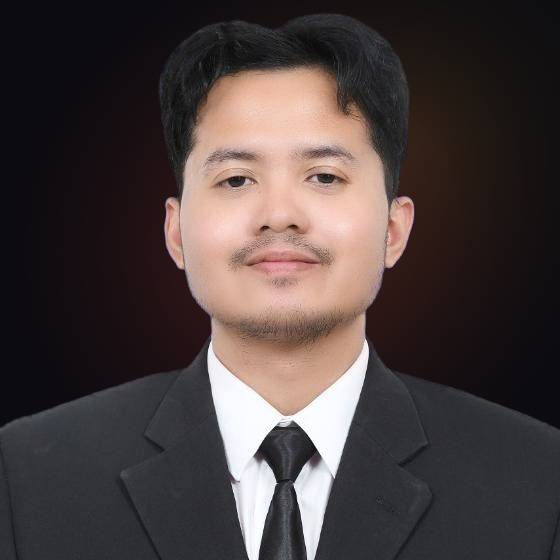
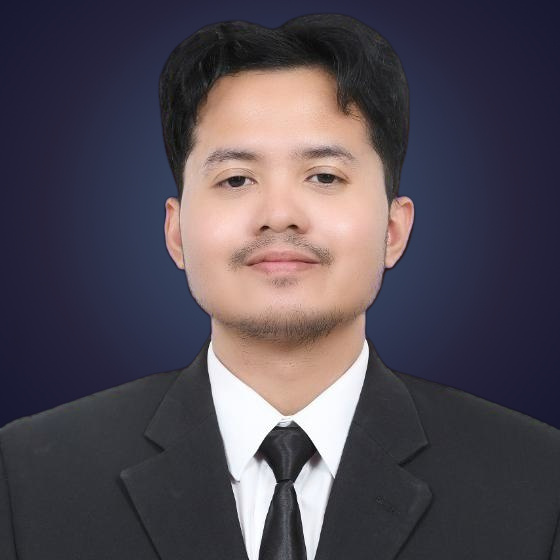
feat(portfolio): add Starry Night portrait backdrop, LinkedIn CTA, and 2.5D cutout motion

diff --git a/script.js b/script.js
@@ -448,6 +448,7 @@ document.addEventListener('DOMContentLoaded', () => {
     const trackedSections = document.querySelectorAll('section[id]');
 
     let scrollTicking = false;
+    let cutoutScrollScale = 1;
     function onScrollUpdate() {
         const scrollY = window.scrollY;
         const docHeight = document.documentElement.scrollHeight - window.innerHeight;
@@ -474,8 +475,7 @@ document.addEventListener('DOMContentLoaded', () => {
                 const vh = window.innerHeight || 900;
                 if (pRect.bottom > 0 && pRect.top < vh) {
                     const cp = 1 - Math.abs((pRect.top + pRect.height / 2 - vh / 2) / vh);
-                    const cs = 1 + Math.max(0, Math.min(1, cp)) * 0.045;
-                    cutoutSubject.style.transform = `translateX(-50%) scale(${cs.toFixed(4)})`;
+                    cutoutScrollScale = 1 + Math.max(0, Math.min(1, cp)) * 0.015;
                 }
             }
 
@@ -1398,7 +1398,129 @@ python infer.py --image sample_via.png --weights models/densenet121_cervical.pth
         });
     }
 
+    // 16. Invincible / CapCut 2.5D Sway & Counter-Parallax on Graduation Cutout Poster
+    function initCutoutInvincibleMotion() {
+        if (prefersReducedMotion || !posterFrame || !cutoutSubject) return;
+
+        const cutoutHalo = posterFrame.querySelector('.cutout-halo');
+        const finePointer = window.matchMedia('(pointer: fine)').matches;
+
+        let targetHoverX = 0;
+        let targetHoverY = 0;
+        let hoverX = 0;
+        let hoverY = 0;
+        let isVisible = !('IntersectionObserver' in window);
+        let rafId = null;
+        let startTs = null;
+        let introStartTs = null;
+        let triggerIntro = !('IntersectionObserver' in window);
+        let introArmed = true;
+
+        if (finePointer) {
+            posterFrame.addEventListener('pointermove', (e) => {
+                const rect = posterFrame.getBoundingClientRect();
+                if (!rect.width || !rect.height) return;
+                targetHoverX = ((e.clientX - rect.left) / rect.width - 0.5) * 2;
+                targetHoverY = ((e.clientY - rect.top) / rect.height - 0.5) * 2;
+            }, { passive: true });
+            posterFrame.addEventListener('pointerleave', () => {
+                targetHoverX = 0;
+                targetHoverY = 0;
+            });
+        }
+
+        function stopLoop() {
+            if (rafId !== null) {
+                cancelAnimationFrame(rafId);
+                rafId = null;
+            }
+        }
+
+        function startLoop() {
+            if (rafId === null && isVisible && !document.hidden) {
+                rafId = requestAnimationFrame(step);
+            }
+        }
+
+        function step(ts) {
+            rafId = null;
+            if (!isVisible || document.hidden) return;
+            if (startTs === null) startTs = ts;
+            if (triggerIntro) {
+                introStartTs = ts;
+                triggerIntro = false;
+            }
+
+            const t = (ts - startTs) * 0.001;
+            const phase = t * 1.05;
+            const sway = Math.sin(phase);
+            const groove = Math.cos(phase * 2);
+            const breath = 0.5 + 0.5 * Math.sin(phase * 1.5);
+            const introAge = introStartTs !== null ? (ts - introStartTs) * 0.001 : 1;
+            const introEnv = introAge < 0.55 ? Math.pow(1 - introAge / 0.55, 2) : 0;
+            const introWave = introEnv > 0 ? Math.sin(introAge * 26) : 0;
+            const introPop = introEnv > 0 ? Math.sin((introAge / 0.55) * Math.PI) * introEnv : 0;
+            const m = posterFrame.clientWidth < 640 ? 0.65 : 1;
+
+            hoverX += (targetHoverX - hoverX) * 0.06;
+            hoverY += (targetHoverY - hoverY) * 0.06;
+
+            const tx = (sway * 8 + introWave * 14 * introEnv) * m + hoverX * 7;
+            const ty = (groove * 2.2 + 1.0 + Math.cos(introAge * 22) * 5 * introEnv) * m + hoverY * 3;
+            const rotY = (sway * 5.2 + introWave * 9 * introEnv) * m + hoverX * 4.5;
+            const rotZ = (sway * 1.4 + introWave * 2.8 * introEnv) * m + hoverX * 0.8;
+            const rotX = Math.sin(t * 0.75) * 1.3 * m - hoverY * 2.8;
+            const scale = cutoutScrollScale * (1.012 + breath * 0.015 + introPop * 0.045);
+
+            // Keep perspective inline so overflow:hidden + border-radius never clip 3D layers in Chromium
+            cutoutSubject.style.transform = `translateX(-50%) perspective(900px) translate3d(${tx.toFixed(2)}px, ${ty.toFixed(2)}px, 0) rotateY(${rotY.toFixed(2)}deg) rotateX(${rotX.toFixed(2)}deg) rotateZ(${rotZ.toFixed(2)}deg) scale(${scale.toFixed(4)})`;
+
+            if (diagWall) {
+                const bgX = -tx * 1.55;
+                const bgY = -ty * 1.45;
+                const bgRotY = -rotY * 0.42;
+                const bgRotX = -rotX * 0.35;
+                const bgScale = 1.05 + (1 - breath) * 0.012 + introEnv * 0.02;
+                diagWall.style.transform = `perspective(900px) translate3d(${bgX.toFixed(2)}px, ${bgY.toFixed(2)}px, 0) rotateY(${bgRotY.toFixed(2)}deg) rotateX(${bgRotX.toFixed(2)}deg) rotate(-11deg) scale(${bgScale.toFixed(4)})`;
+            }
+
+            if (cutoutHalo) {
+                const hX = tx * 0.65;
+                const hY = ty * 0.65;
+                const hScale = 1 + breath * 0.04 + introPop * 0.06;
+                cutoutHalo.style.transform = `translate3d(calc(-50% + ${hX.toFixed(2)}px), ${hY.toFixed(2)}px, 0) scale(${hScale.toFixed(4)})`;
+            }
+
+            rafId = requestAnimationFrame(step);
+        }
+
+        if ('IntersectionObserver' in window) {
+            const visObs = new IntersectionObserver((entries) => {
+                entries.forEach(entry => {
+                    isVisible = entry.isIntersecting;
+                    if (!entry.isIntersecting) {
+                        introArmed = true;
+                    } else if (introArmed && entry.intersectionRatio >= 0.35) {
+                        introArmed = false;
+                        triggerIntro = true;
+                    }
+                });
+                if (isVisible) startLoop();
+                else stopLoop();
+            }, { threshold: [0.01, 0.35] });
+            visObs.observe(posterFrame);
+        }
+
+        document.addEventListener('visibilitychange', () => {
+            if (document.hidden) stopLoop();
+            else startLoop();
+        });
+
+        startLoop();
+    }
+
     init3DLanyard();
     initStarryAscii();
     initPhotoProtection();
+    initCutoutInvincibleMotion();
 });

diff --git a/styles.css b/styles.css
@@ -584,21 +584,22 @@ button {
     flex-wrap: wrap;
     justify-content: flex-start;
     align-items: center;
-    gap: 0.85rem;
+    gap: 0.6rem;
 }
 
 .btn-keynote-primary {
     display: inline-flex;
     align-items: center;
     justify-content: center;
-    gap: 0.55rem;
+    gap: 0.5rem;
     background: var(--text-on-dark);
     color: #191939;
-    font-size: 0.95rem;
+    font-size: 0.9rem;
     font-weight: 700;
-    padding: 0.85rem 1.7rem;
+    padding: 0.78rem 1.32rem;
     border-radius: 980px;
     border: none;
+    white-space: nowrap;
     transition: var(--transition);
 }
 
@@ -611,14 +612,15 @@ button {
     display: inline-flex;
     align-items: center;
     justify-content: center;
-    gap: 0.55rem;
+    gap: 0.5rem;
     background: rgba(27, 58, 104, 0.55);
     border: 1px solid rgba(111, 184, 230, 0.56);
     color: #FFFFFF;
-    font-size: 0.95rem;
+    font-size: 0.9rem;
     font-weight: 600;
-    padding: 0.82rem 1.6rem;
+    padding: 0.76rem 1.28rem;
     border-radius: 980px;
+    white-space: nowrap;
     transition: var(--transition);
 }
 
@@ -630,14 +632,15 @@ button {
 .btn-keynote-ghost {
     display: inline-flex;
     align-items: center;
-    gap: 0.5rem;
+    gap: 0.45rem;
     background: rgba(25, 25, 57, 0.56);
     border: 1px solid rgba(242, 225, 153, 0.30);
     color: var(--text-on-dark-muted);
-    font-size: 0.9rem;
+    font-size: 0.86rem;
     font-weight: 600;
-    padding: 0.82rem 1.35rem;
+    padding: 0.76rem 1.06rem;
     border-radius: 980px;
+    white-space: nowrap;
     transition: var(--transition);
 }
 
@@ -645,6 +648,26 @@ button {
     color: #FFFFFF;
     border-color: var(--accent-on-dark);
     background: rgba(27, 58, 104, 0.65);
+}
+
+.btn-keynote-linkedin {
+    border-color: rgba(111, 184, 230, 0.42);
+    color: #F8FAFD;
+}
+
+.btn-keynote-linkedin .fab {
+    color: var(--blue-skies);
+}
+
+.btn-ext-ico {
+    font-size: 0.72em;
+    opacity: 0.78;
+    transition: transform 0.22s ease, opacity 0.22s ease;
+}
+
+.btn-keynote-linkedin:hover .btn-ext-ico {
+    opacity: 1;
+    transform: translate(2px, -2px);
 }
 
 .btn-full {
@@ -877,6 +900,8 @@ button {
     justify-content: center;
     gap: 0.12em;
     transform: rotate(-11deg);
+    transform-origin: center center;
+    will-change: transform;
     pointer-events: none;
     user-select: none;
 }
@@ -952,16 +977,17 @@ button {
     height: 75%;
     background: radial-gradient(ellipse at center, rgba(236, 180, 77, 0.22) 0%, rgba(111, 184, 230, 0.26) 42%, transparent 72%);
     z-index: 2;
+    will-change: transform;
     pointer-events: none;
 }
 
 .cutout-subject {
     position: absolute;
-    bottom: 0;
+    bottom: -14px;
     left: 50%;
     transform: translateX(-50%) scale(1);
-    transform-origin: bottom center;
-    height: 92%;
+    transform-origin: 50% 90%;
+    height: 86%;
     width: auto;
     max-width: 90%;
     object-fit: contain;
@@ -2677,6 +2703,10 @@ button {
     .diag-row.dir-right {
         animation: none;
     }
+    .cutout-subject {
+        bottom: 0;
+        transform: translateX(-50%) scale(1);
+    }
 }
 
 /* ==========================================================================
@@ -2790,7 +2820,8 @@ button {
         font-size: 2.3rem;
     }
     .cutout-subject {
-        height: 85%;
+        height: 86%;
+        bottom: -14px;
     }
     .poster-tr,
     .poster-bl {

diff --git a/index.html b/index.html
@@ -22,7 +22,7 @@
     <link rel="stylesheet" href="https://cdnjs.cloudflare.com/ajax/libs/font-awesome/6.4.0/css/all.min.css">
 
     <!-- Custom CSS (Cache-Busted) -->
-    <link rel="stylesheet" href="styles.css?v=20261128_blueprint_v8">
+    <link rel="stylesheet" href="styles.css?v=20261128_invincible_v12">
 </head>
 <body>
 
@@ -75,6 +75,11 @@
                     <div class="hero-cta-group hero-stagger">
                         <a href="#contact" class="btn-keynote-primary" data-i18n="btn.get_in_touch">Get In Touch</a>
                         <a href="#projects" class="btn-keynote-secondary" data-i18n="btn.explore_case_studies">Explore Work</a>
+                        <a href="https://www.linkedin.com/in/mathallahrafifaldera/" target="_blank" rel="noopener noreferrer" class="btn-keynote-ghost btn-keynote-linkedin" title="Open LinkedIn profile">
+                            <i class="fab fa-linkedin" aria-hidden="true"></i>
+                            <span>LinkedIn</span>
+                            <i class="fas fa-arrow-up-right-from-square btn-ext-ico" aria-hidden="true"></i>
+                        </a>
                         <button class="btn-keynote-ghost" id="btn-copy-email-hero" type="button">
                             <i class="fas fa-copy" aria-hidden="true"></i>
                             <span data-i18n="btn.copy_email">Copy Email</span>
@@ -85,7 +90,7 @@
                 <div class="hero-visual-stage hero-stagger">
                     <figure class="formal-portrait-wrap" id="formal-portrait-wrap">
                         <img
-                            src="profile.jpg"
+                            src="profile.jpg?v=20261128_starry_portrait"
                             alt="M. Athallah Rafif Aldera formal black suit portrait"
                             width="560"
                             height="560"
@@ -246,7 +251,7 @@
                                 </div>
 
                                 <div class="badge-photo-frame">
-                                    <img src="profile.jpg" alt="M. Athallah Rafif Aldera, S.Kom." width="560" height="560" class="badge-photo" id="profile-img">
+                                    <img src="profile.jpg?v=20261128_starry_portrait" alt="M. Athallah Rafif Aldera, S.Kom." width="560" height="560" class="badge-photo" id="profile-img">
                                     <div class="badge-status-pill">
                                         <span class="status-dot"></span>
                                         <span data-i18n="hero.open_to_work">Open to Work</span>
@@ -1001,6 +1006,6 @@
 
     <!-- JS Script (Cache-Busted) -->
     <script src="assets/starry-ascii-data.js?v=20261127_starry_v5" defer></script>
-    <script src="script.js?v=20261127_starry_v5" defer></script>
+    <script src="script.js?v=20261128_invincible_v14" defer></script>
 </body>
 </html>
